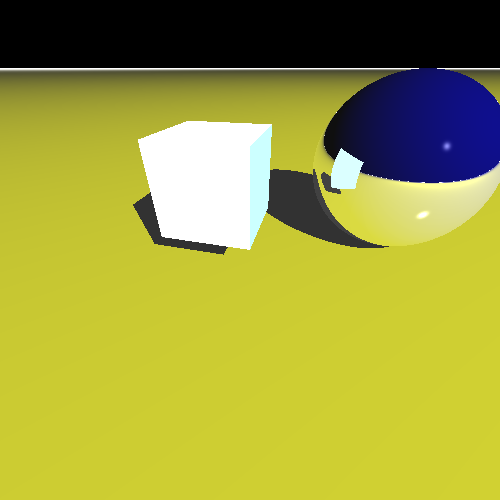
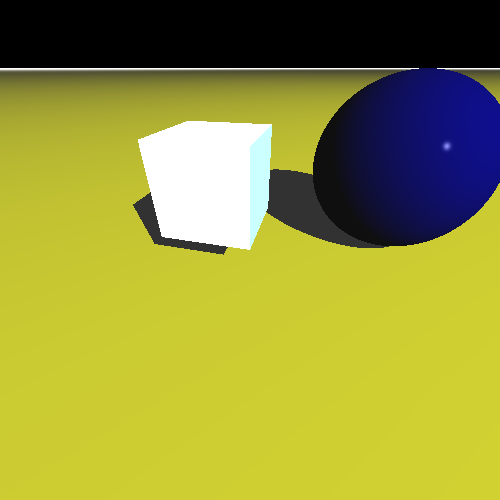
feat: add new scenario

Changed region(s): [[0.6, 0.24, 1.0, 0.51]]

diff --git a/renderer.py b/renderer.py
@@ -112,13 +112,11 @@ class Renderer:
                 Ir = Ir/255.0
                 reflection_component = k_r * Ir
             if refraction and k_t != 0:
-                snell = n_in / n_out
                 cos_theta = N.dot_product(camera_vector)
                 if(cos_theta < 0):
                     cos_theta = -1 * cos_theta
                     N = N * -1
                     n_out = 1 / n_out
-                cost_theta_t = self.cos_theta_t(n_in, n_out, cos_theta)
                 delta = 1 - (1 - cos_theta * cos_theta) / (n_out * n_out)
                 if delta >= 0:
                     refracted_vector = (camera_vector / (-n_out) - N * (math.sqrt(delta) - cos_theta/n_out)).normalize()

diff --git a/main.py b/main.py
@@ -131,13 +131,13 @@ def main():
     )
 
     plane2 = Plane(
-        point=Point(-10, 0, 0),
-        normal=Point(-10, 0, 0) - Point(1,0,0),
+        point=Point(0, 0, -10),
+        normal=Point(0, 0, -10) - Point(0,0,1),
         color=np.array([0, 1, 1]),  # Cor do plano (amarelo)
         k_ambient=1,
         k_diffuse=1,
         k_specular=1,
-        k_reflection=0.0,
+        k_reflection=1,
         k_refraction=0.0,
         refraction_index=1,
         n=500,
@@ -198,7 +198,7 @@ def main():
     reader.read_file()
 
     mesh = reader.create_mesh()
-    objects = [plane, sphere2, mesh ]
+    objects = [plane, sphere2, mesh]
 
     # Luzes
    
